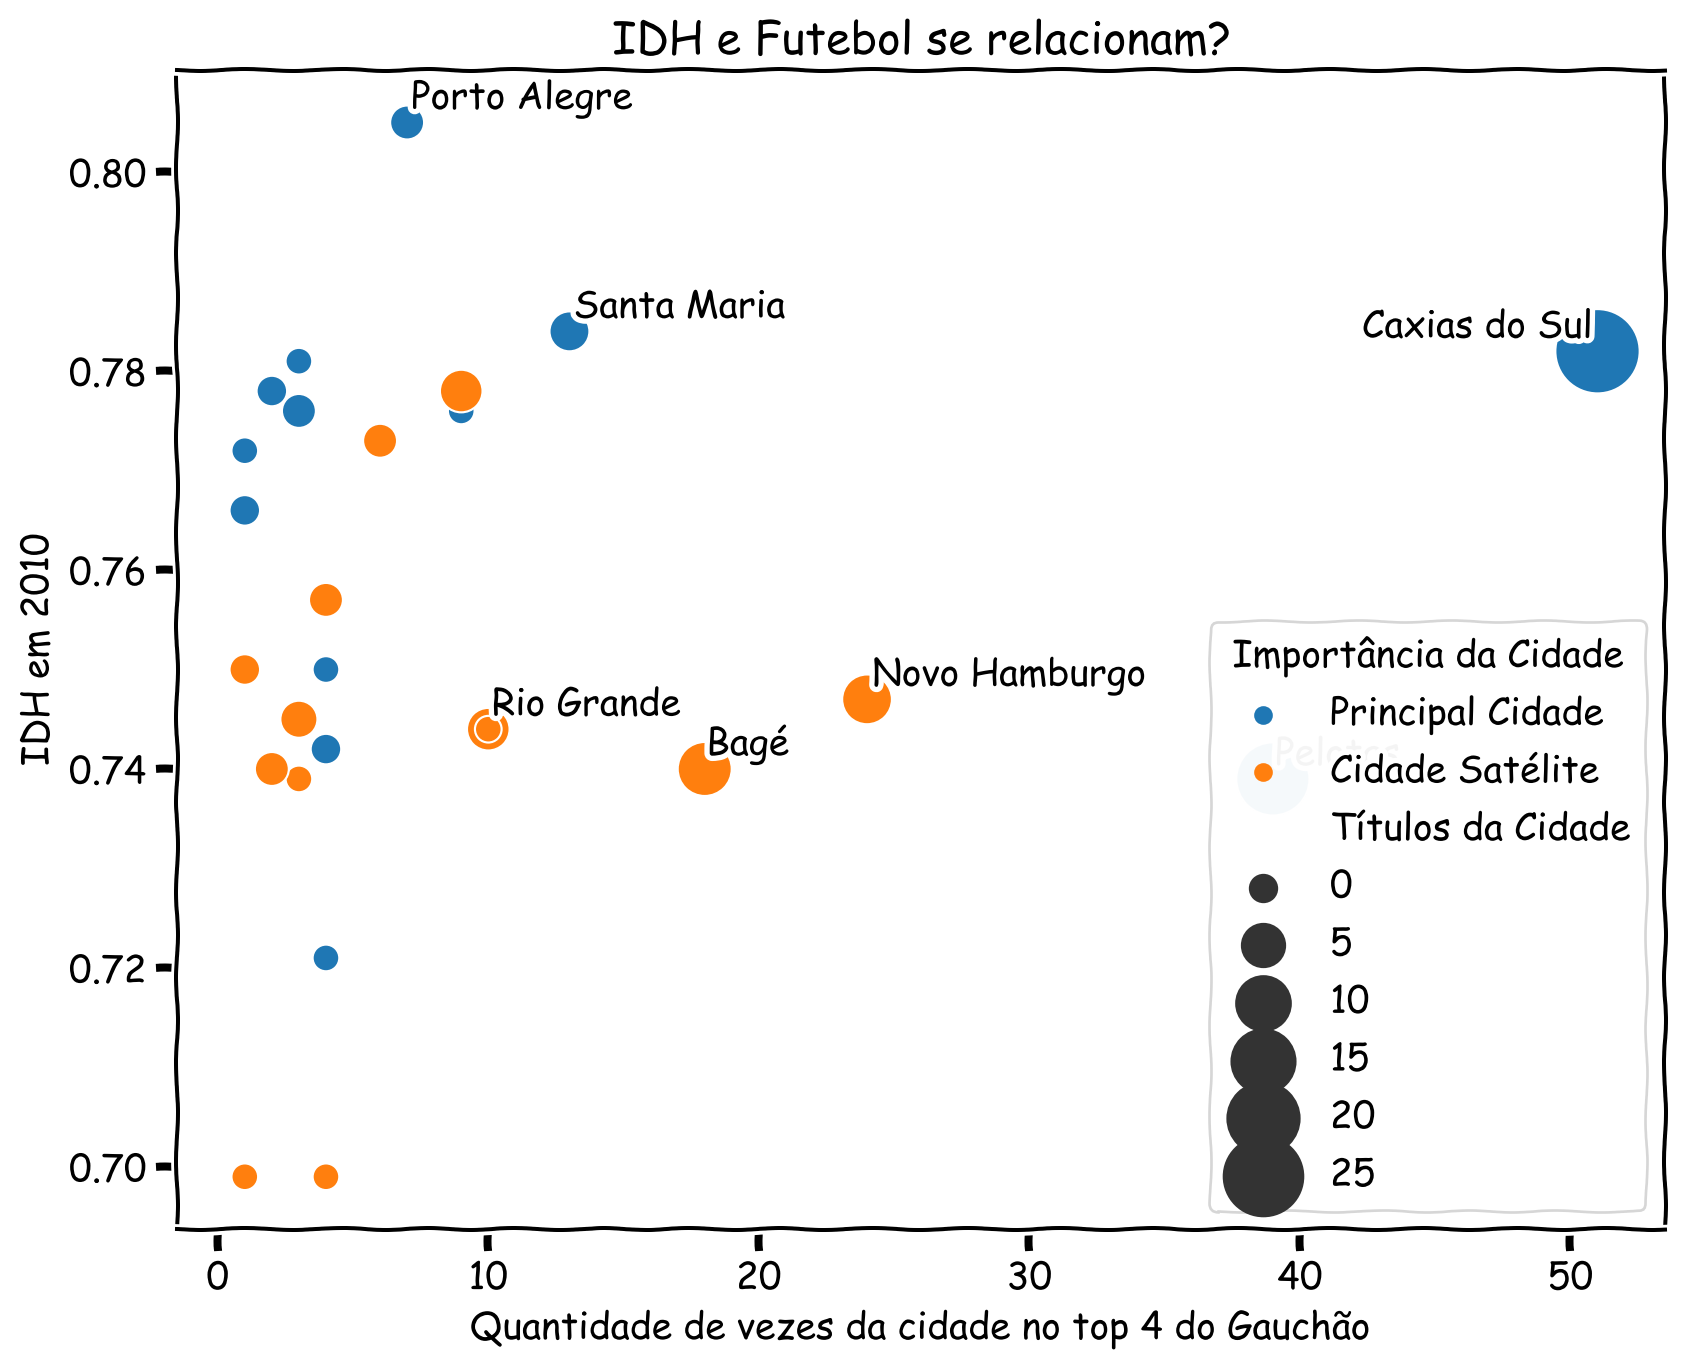
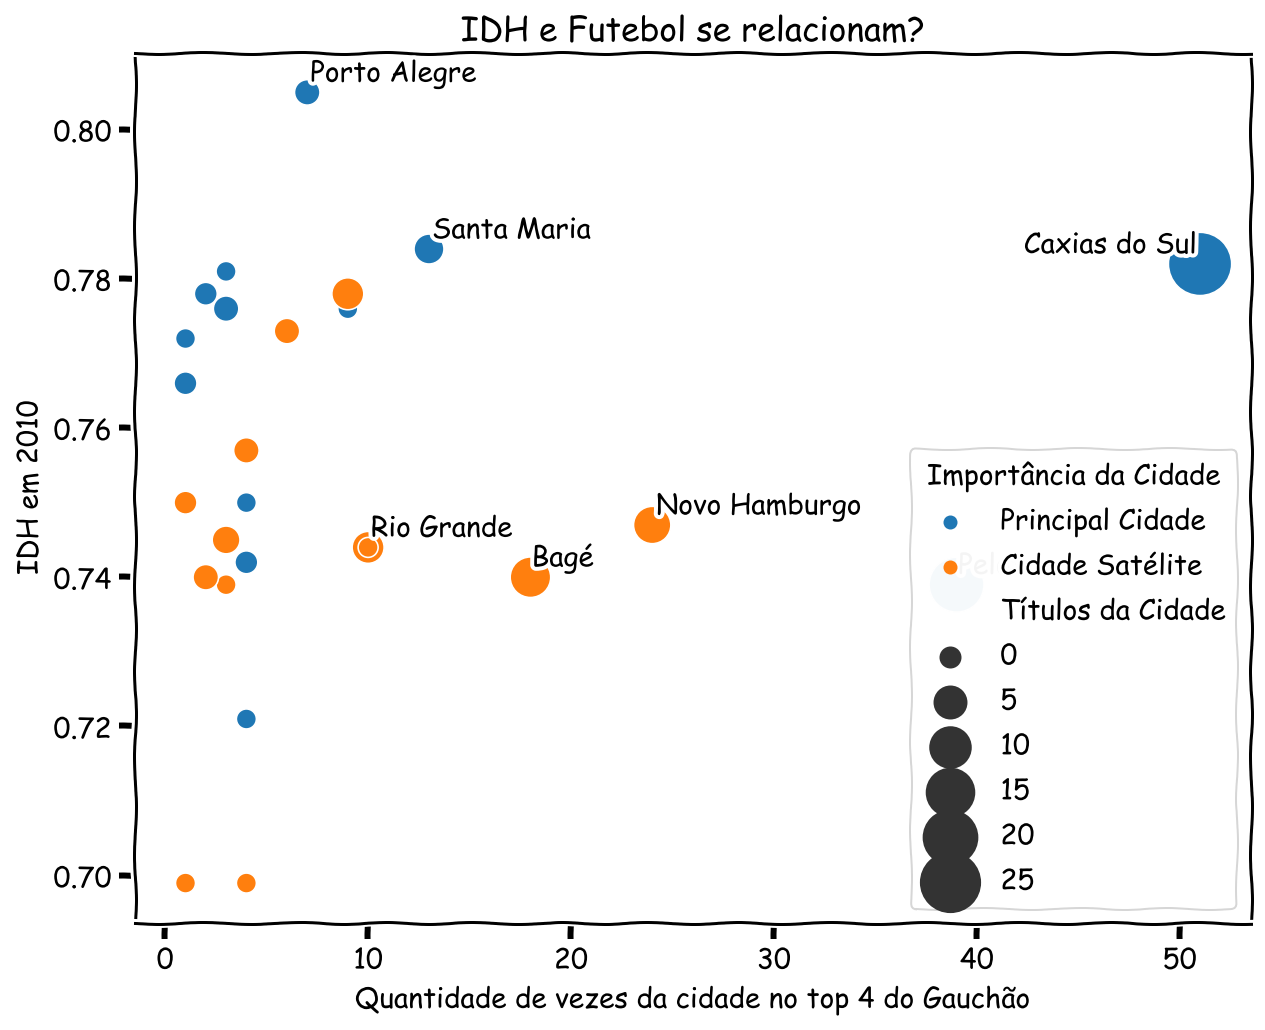
fix: final apresentacao

diff --git a/docs/index.html b/docs/index.html
@@ -470,7 +470,7 @@
 <div class="cell-output cell-output-display">
 <div class="quarto-figure quarto-figure-center">
 <figure>
-<p><img data-src="index_files/figure-revealjs/cell-4-output-1.png" width="590" height="472"></p>
+<p><img data-src="index_files/figure-revealjs/cell-4-output-1.png"></p>
 </figure>
 </div>
 </div>
@@ -514,7 +514,7 @@ font-size:50%;
 }
 </style>
 <div class="cell" data-execution_count="5">
-<div class="cell-output cell-output-display" data-execution_count="74">
+<div class="cell-output cell-output-display" data-execution_count="4">
 
 <table border="1" class="dataframe">
 
@@ -821,7 +821,7 @@ Bagé
 </div>
 <div id="tabset-2-2">
 <div class="cell" data-execution_count="6">
-<div class="cell-output cell-output-display" data-execution_count="75">
+<div class="cell-output cell-output-display" data-execution_count="5">
 
 <table border="1" class="dataframe">
 
@@ -1060,7 +1060,7 @@ Erechim
 </div>
 <div id="tabset-2-3">
 <div class="cell" data-execution_count="7">
-<div class="cell-output cell-output-display" data-execution_count="76">
+<div class="cell-output cell-output-display" data-execution_count="6">
 
 <table border="1" class="dataframe">
 
@@ -1396,7 +1396,7 @@ Metropolitana
 <div class="tab-content">
 <div id="tabset-3-1">
 <div class="cell" data-execution_count="9">
-<div class="cell-output cell-output-display" data-execution_count="77">
+<div class="cell-output cell-output-display" data-execution_count="7">
 
 <div>
 <style scoped="">
@@ -1502,7 +1502,7 @@ Metropolitana
 </div>
 <div id="tabset-3-2">
 <div class="cell" data-execution_count="10">
-<div class="cell-output cell-output-display" data-execution_count="78">
+<div class="cell-output cell-output-display" data-execution_count="8">
 
 <div>
 <style scoped="">
@@ -1577,7 +1577,7 @@ Metropolitana
 </div>
 </div>
 <div class="cell" data-execution_count="11">
-<div class="cell-output cell-output-display" data-execution_count="79">
+<div class="cell-output cell-output-display" data-execution_count="9">
 
 <div>
 <style scoped="">
@@ -1630,7 +1630,7 @@ Metropolitana
 </div>
 <div id="tabset-3-3">
 <div class="cell" data-execution_count="12">
-<div class="cell-output cell-output-display" data-execution_count="80">
+<div class="cell-output cell-output-display" data-execution_count="10">
 
 <div>
 <style scoped="">
@@ -1869,7 +1869,7 @@ Metropolitana
 <div class="cell-output cell-output-display">
 <div class="quarto-figure quarto-figure-center">
 <figure>
-<p><img data-src="index_files/figure-revealjs/cell-15-output-1.png" width="711" height="516"></p>
+<p><img data-src="index_files/figure-revealjs/cell-15-output-1.png"></p>
 </figure>
 </div>
 </div>
@@ -1914,13 +1914,13 @@ Metropolitana
 <div class="column" style="width:50%;">
 <div class="cell" data-execution_count="16">
 <div class="cell-output cell-output-display">
-<p><img data-src="index_files/figure-revealjs/cell-17-output-1.png" width="904" height="488"></p>
+<p><img data-src="index_files/figure-revealjs/cell-17-output-1.png"></p>
 </div>
 </div>
 </div><div class="column" style="width:50%;">
 <div class="cell" data-execution_count="17">
 <div class="cell-output cell-output-display">
-<p><img data-src="index_files/figure-revealjs/cell-18-output-1.png" width="937" height="488"></p>
+<p><img data-src="index_files/figure-revealjs/cell-18-output-1.png"></p>
 </div>
 </div>
 </div>
@@ -1931,13 +1931,13 @@ Metropolitana
 <div class="column" style="width:50%;">
 <div class="cell" data-execution_count="18">
 <div class="cell-output cell-output-display">
-<p><img data-src="index_files/figure-revealjs/cell-19-output-1.png" width="907" height="487"></p>
+<p><img data-src="index_files/figure-revealjs/cell-19-output-1.png"></p>
 </div>
 </div>
 </div><div class="column" style="width:50%;">
 <div class="cell" data-execution_count="19">
 <div class="cell-output cell-output-display">
-<p><img data-src="index_files/figure-revealjs/cell-20-output-1.png" width="937" height="487"></p>
+<p><img data-src="index_files/figure-revealjs/cell-20-output-1.png"></p>
 </div>
 </div>
 </div>
@@ -1998,7 +1998,7 @@ Metropolitana
 <div class="tab-content">
 <div id="tabset-6-1">
 <div class="cell" data-execution_count="21">
-<div class="cell-output cell-output-display" data-execution_count="86">
+<div class="cell-output cell-output-display" data-execution_count="16">
 
 <table border="1" class="dataframe">
 
@@ -2166,7 +2166,7 @@ Brasil de Pelotas
 <div class="tab-content">
 <div id="tabset-7-1">
 <div class="cell" data-execution_count="23">
-<div class="cell-output cell-output-display" data-execution_count="87">
+<div class="cell-output cell-output-display" data-execution_count="17">
 
 <table border="1" class="dataframe">
 
@@ -2357,7 +2357,7 @@ Pelotas
 <section id="entendo-as-variáveis-do-banco-1" class="slide level2">
 <h2>Entendo as variáveis do banco</h2>
 <div class="cell" data-execution_count="25">
-<div class="cell-output cell-output-display" data-execution_count="88">
+<div class="cell-output cell-output-display" data-execution_count="18">
 
 <table border="1" class="dataframe">
 
@@ -2553,7 +2553,7 @@ freq
 </div>
 </div>
 <div class="cell" data-execution_count="26">
-<div class="cell-output cell-output-display" data-execution_count="89">
+<div class="cell-output cell-output-display" data-execution_count="19">
 
 <div>
 <style scoped="">
@@ -2644,13 +2644,13 @@ freq
 <div class="column" style="width:50%;">
 <div class="cell" data-execution_count="27">
 <div class="cell-output cell-output-display">
-<p><img data-src="index_files/figure-revealjs/cell-28-output-1.png" width="979" height="685"></p>
+<p><img data-src="index_files/figure-revealjs/cell-28-output-1.png"></p>
 </div>
 </div>
 </div><div class="column" style="width:50%;">
 <div class="cell" data-execution_count="28">
 <div class="cell-output cell-output-display">
-<p><img data-src="index_files/figure-revealjs/cell-29-output-1.png" width="1002" height="685"></p>
+<p><img data-src="index_files/figure-revealjs/cell-29-output-1.png"></p>
 </div>
 </div>
 </div>
@@ -2661,13 +2661,13 @@ freq
 <div class="column" style="width:50%;">
 <div class="cell" data-execution_count="29">
 <div class="cell-output cell-output-display">
-<p><img data-src="index_files/figure-revealjs/cell-30-output-1.png" width="989" height="684"></p>
+<p><img data-src="index_files/figure-revealjs/cell-30-output-1.png"></p>
 </div>
 </div>
 </div><div class="column" style="width:50%;">
 <div class="cell" data-execution_count="30">
 <div class="cell-output cell-output-display">
-<p><img data-src="index_files/figure-revealjs/cell-31-output-1.png" width="1002" height="684"></p>
+<p><img data-src="index_files/figure-revealjs/cell-31-output-1.png"></p>
 </div>
 </div>
 </div>
@@ -2694,7 +2694,7 @@ freq
 <h3 id="as-cidades-onde-estão">As cidades onde estão?</h3>
 <h3 id="prelúdio-para-o-trabalho-2">Prelúdio para o trabalho 2</h3>
 <div class="cell" data-execution_count="34">
-<div class="cell-output cell-output-display" data-execution_count="96">
+<div class="cell-output cell-output-display" data-execution_count="26">
 
 <div>
 <style scoped="">
@@ -2877,7 +2877,7 @@ freq
 <section id="criação-de-uma-variável-categória" class="slide level2">
 <h2>Criação de uma variável categória</h2>
 <div class="cell" data-execution_count="35">
-<div class="cell-output cell-output-display" data-execution_count="97">
+<div class="cell-output cell-output-display" data-execution_count="27">
 
 <table border="1" class="dataframe">
 
@@ -3044,13 +3044,13 @@ Principal Cidade
 <div class="column" style="width:50%;">
 <div class="cell" data-execution_count="36">
 <div class="cell-output cell-output-display">
-<p><img data-src="index_files/figure-revealjs/cell-37-output-1.png" width="898" height="720"></p>
+<p><img data-src="index_files/figure-revealjs/cell-37-output-1.png"></p>
 </div>
 </div>
 </div><div class="column" style="width:50%;">
 <div class="cell" data-execution_count="37">
 <div class="cell-output cell-output-display">
-<p><img data-src="index_files/figure-revealjs/cell-38-output-1.png" width="815" height="684"></p>
+<p><img data-src="index_files/figure-revealjs/cell-38-output-1.png"></p>
 </div>
 </div>
 </div>
@@ -3061,13 +3061,13 @@ Principal Cidade
 <div class="column" style="width:50%;">
 <div class="cell" data-execution_count="38">
 <div class="cell-output cell-output-display">
-<p><img data-src="index_files/figure-revealjs/cell-39-output-1.png" width="928" height="720"></p>
+<p><img data-src="index_files/figure-revealjs/cell-39-output-1.png"></p>
 </div>
 </div>
 </div><div class="column" style="width:50%;">
 <div class="cell" data-execution_count="39">
 <div class="cell-output cell-output-display">
-<p><img data-src="index_files/figure-revealjs/cell-40-output-1.png" width="842" height="684"></p>
+<p><img data-src="index_files/figure-revealjs/cell-40-output-1.png"></p>
 </div>
 </div>
 </div>
@@ -3078,13 +3078,13 @@ Principal Cidade
 <div class="column" style="width:50%;">
 <div class="cell" data-execution_count="40">
 <div class="cell-output cell-output-display">
-<p><img data-src="index_files/figure-revealjs/cell-41-output-1.png" width="945" height="720"></p>
+<p><img data-src="index_files/figure-revealjs/cell-41-output-1.png"></p>
 </div>
 </div>
 </div><div class="column" style="width:50%;">
 <div class="cell" data-execution_count="41">
 <div class="cell-output cell-output-display">
-<p><img data-src="index_files/figure-revealjs/cell-42-output-1.png" width="860" height="684"></p>
+<p><img data-src="index_files/figure-revealjs/cell-42-output-1.png"></p>
 </div>
 </div>
 </div>
@@ -3095,13 +3095,13 @@ Principal Cidade
 <div class="column" style="width:50%;">
 <div class="cell" data-execution_count="42">
 <div class="cell-output cell-output-display">
-<p><img data-src="index_files/figure-revealjs/cell-43-output-1.png" width="916" height="720"></p>
+<p><img data-src="index_files/figure-revealjs/cell-43-output-1.png"></p>
 </div>
 </div>
 </div><div class="column" style="width:50%;">
 <div class="cell" data-execution_count="43">
 <div class="cell-output cell-output-display">
-<p><img data-src="index_files/figure-revealjs/cell-44-output-1.png" width="831" height="684"></p>
+<p><img data-src="index_files/figure-revealjs/cell-44-output-1.png"></p>
 </div>
 </div>
 </div>
